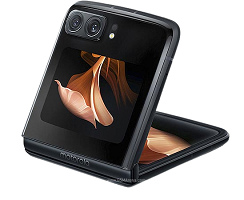
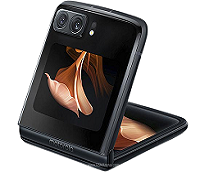
update

diff --git a/src/App.js b/src/App.js
@@ -14,6 +14,7 @@ import ListHdd from './components/ListHdd';
 import ListSdd from './components/ListSdd';
 import Sign from './components/Sign';
 import Login from './components/Login';
+import Footer from './components/Footer';
 const App = () => { 
   const [showMain, setShowMain] = useState(false)
 
@@ -27,12 +28,12 @@ const App = () => {
           </div>
         <Routes>
         <Route path='/' element={<div> {!showMain ? <Main /> : <Basket />}</div>  }/>
-          <Route path='/mobile' element={<ListMobile />} />
-          <Route path='/labtab' element={<ListLabtab />} />
-          <Route path='/tablet' element={<ListTablet />} />
-          <Route path='/Flash Memory' element={<ListFlash />} />
-           <Route path='/Hdd Disk' element={<ListHdd />} />
-          <Route path='/Sdd Disk' element={<ListSdd />} />
+          < Route path = '/mobile'element = { <div > < ListMobile />  <Footer/> </div>}/>
+          <Route path='/labtab' element={<div><ListLabtab /> <Footer/></div>} />
+          <Route path='/tablet' element={<div><ListTablet/> <Footer/></div>} />
+          <Route path='/Flash Memory' element={<div><ListFlash/> <Footer/></div>} />
+           <Route path='/Hdd Disk' element={<div><ListHdd/> <Footer/></div>} />
+          <Route path='/Sdd Disk' element={<div><ListSdd/> <Footer/></div>} />
           <Route path='/sign' element={<Sign/>} />
           <Route path='/login' element={<Login/>} />
           <Route path='/basket' element={<Basket/> } />

diff --git a/src/components/ListMobile.jsx b/src/components/ListMobile.jsx
@@ -6,7 +6,8 @@ import '../style/listmobile.scss'
 const ListMobile = () => {
   const { state, dispatch } = useContext(Context);
   let { productsMobile, card } = state;
-  const [add,setAdd]=useState([])
+  const [add, setAdd] = useState([])
+  // const style = { backgroundImage: `url(${imgSlider[counter].img})` };
   const render = productsMobile.map((item, ind) => {
     const addHandel = (item) => {
       if (card.indexOf(item) === -1) {
@@ -22,10 +23,17 @@ const ListMobile = () => {
           <img src={item.img} alt="" />
         </div>
         <div className="mobile-titel">
-          <p><span>Brand</span> {item.model}</p>
-          <p><span>Ram</span> {item.ram}</p>
-          <p><span>price</span> {item.price}$</p>
-          <button onClick={()=> addHandel(item)}>Add To Basket</button>
+          <p>
+            <span>Brand</span> {item.model}
+          </p>
+          <p>
+            <span>price</span> {item.price}$
+          </p>
+          <p>
+            <span>Ram</span> {item.ram}
+          </p>
+
+          <button onClick={() => addHandel(item)}>Add To Basket</button>
         </div>
       </div>
     );

diff --git a/src/style/basket.scss b/src/style/basket.scss
@@ -4,13 +4,14 @@
   padding: 0;
   box-sizing: border-box;
 }
-
+.coni{
+  background: rgb(48, 2, 197);
+  padding: 2rem;
+}
 .container-basket {
   width: 50vw;
-  // border: 1px solid rgb(196, 194, 194);
   margin: 2rem auto;
   border-radius: 13px;
-  // background: rgb(186, 184, 184);
   background: $backgroundO;
 }
 .wrrap-basket {
@@ -18,6 +19,7 @@
   justify-content: space-between;
   align-items: center;
   padding: 2rem;
+  flex-wrap: wrap;
 }
 .text {
   width: 200px;
@@ -30,6 +32,7 @@
   display: flex;
   align-items: center;
   gap: 1.5rem;
+  flex-wrap: wrap;
 }
 .sumitem p {
   font-size: 2.9rem;
@@ -57,8 +60,6 @@
   text-align: center;
   margin-right: 7rem;
   width: 95vw;
-  // border:5px solid rgb(180, 178, 178);
-  // margin: 2rem auto;
   padding: 2rem;
   border-radius: 10px;
 }
@@ -86,8 +87,4 @@
 }
 .show{
   display: block;
-}
-.coni{
-  background: rgb(48, 2, 197);
-  padding: 2rem;
 }

diff --git a/src/style/listlabtab.scss b/src/style/listlabtab.scss
@@ -11,23 +11,35 @@
    flex-wrap: wrap;
     gap: 2.5rem;
     .wrrap-labtab{
-    padding: 5rem;
+    // padding:2rem;
     display: flex;
     flex-direction: column;
-     width: 350px;
-     height: 400px;
+     width: 250px;
+    height: 350px;
+     margin: 3rem;
+     transition: all .5s;
+     cursor: pointer;
+    border-right: 3px solid rgb(249, 173, 173);
+     
+
    
  }
-  .wrrap-labtab .labtab-img {
-   width: 350px;
-    height: 400px;
+  .wrrap-labtab:hover{
+    transform: scale(1.2);
+     padding:1rem 2rem;
+   }
+   .labtab-img {
+   width: 200px;
+    height:150px;
+    // background: lightcoral;
+  
  }
- .wrrap-labtab .labtab-img img{
-    width: 100%;
+ .labtab-img img{
+  width: 100%;
  }
 
   .labtab-titel{
-    height: 60px;
+    height: 150px;
   
  }
 

diff --git a/src/style/listmobile.scss b/src/style/listmobile.scss
@@ -10,21 +10,32 @@
    justify-content: center;
    flex-wrap: wrap;
     gap: 2.5rem;
+       text-align: center;
+  
     .wrrap-mobile{
-    padding: 4rem;
     display: flex;
     flex-direction: column;
      width: 250px;
     height: 350px;
-   
-}
-.wrrap-mobile .mobile-img{
+     margin: 3rem;
+     transition: all .5s;
+     cursor: pointer;
+    
+   }
+   .wrrap-mobile:hover{
+    transform: scale(1.2);
+     padding:1rem 2rem;
+       border-right: 3px solid rgb(249, 173, 173);
+   }
+  .mobile-img{
    width: 250px;
-    height: 300px;
-}
+    height: 220px;
+
+  
+  }
 
 .mobile-titel{
-    height: 50px;
+    height: 150px;
 }
 
 .mobile-titel p , button{

diff --git a/src/context/index.js b/src/context/index.js
@@ -23,7 +23,7 @@ import img18_slider from "../img/appel 14.png"
 import img19_slider from "../img/googel 7.png"
 import img20_slider from "../img/googel 7p.png"
 import img21_slider from "../img/sam flip.png"
-import img22_slider from "../img/sam fold.png"
+import img22_slider from "../img/fold.png"
 import img23_slider from "../img/xio 12.png"
 import img24_slider from "../img/lab.jpeg"
 import img25_slider from "../img/lab1.jpeg"

diff --git a/src/style/listsider.scss b/src/style/listsider.scss
@@ -26,7 +26,7 @@
   align-items: center;
   justify-content: center;
   transition: all 0.5s ease-in-out;
-  cursor: pointer;
+  // cursor: pointer;
 }
 
 .img img {
